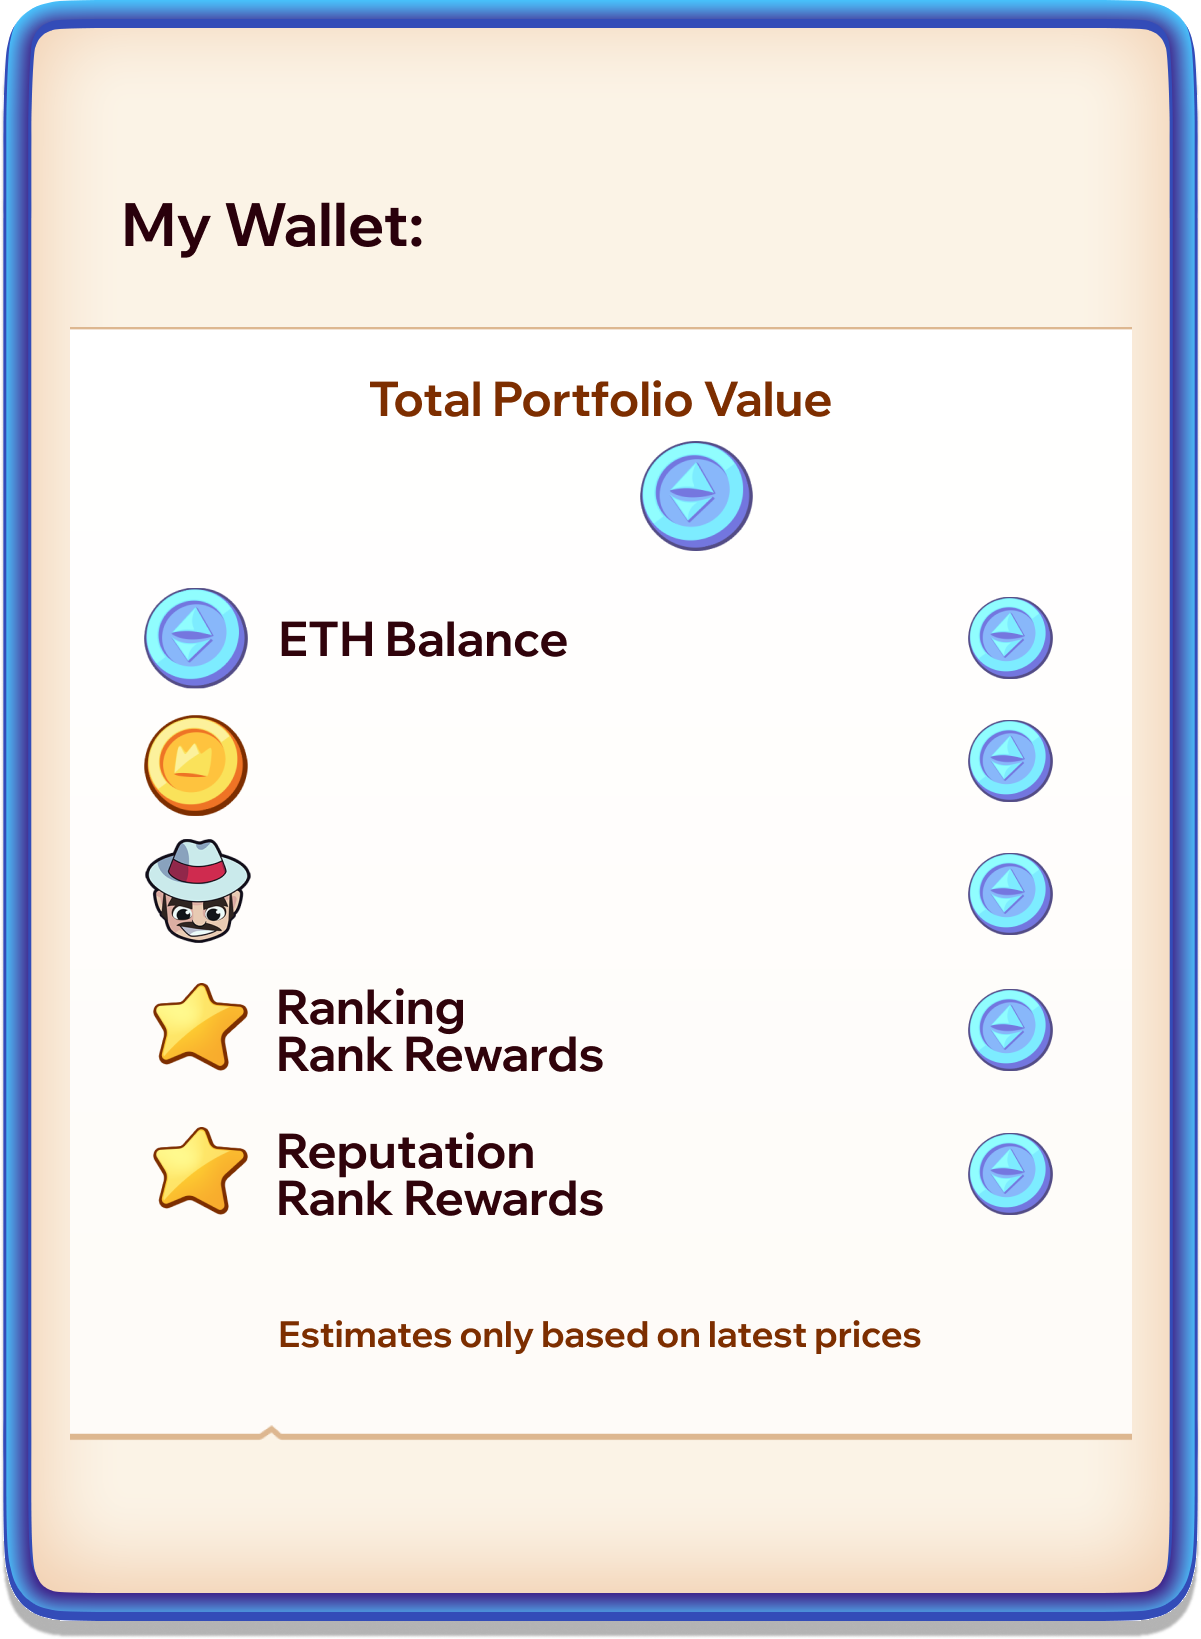
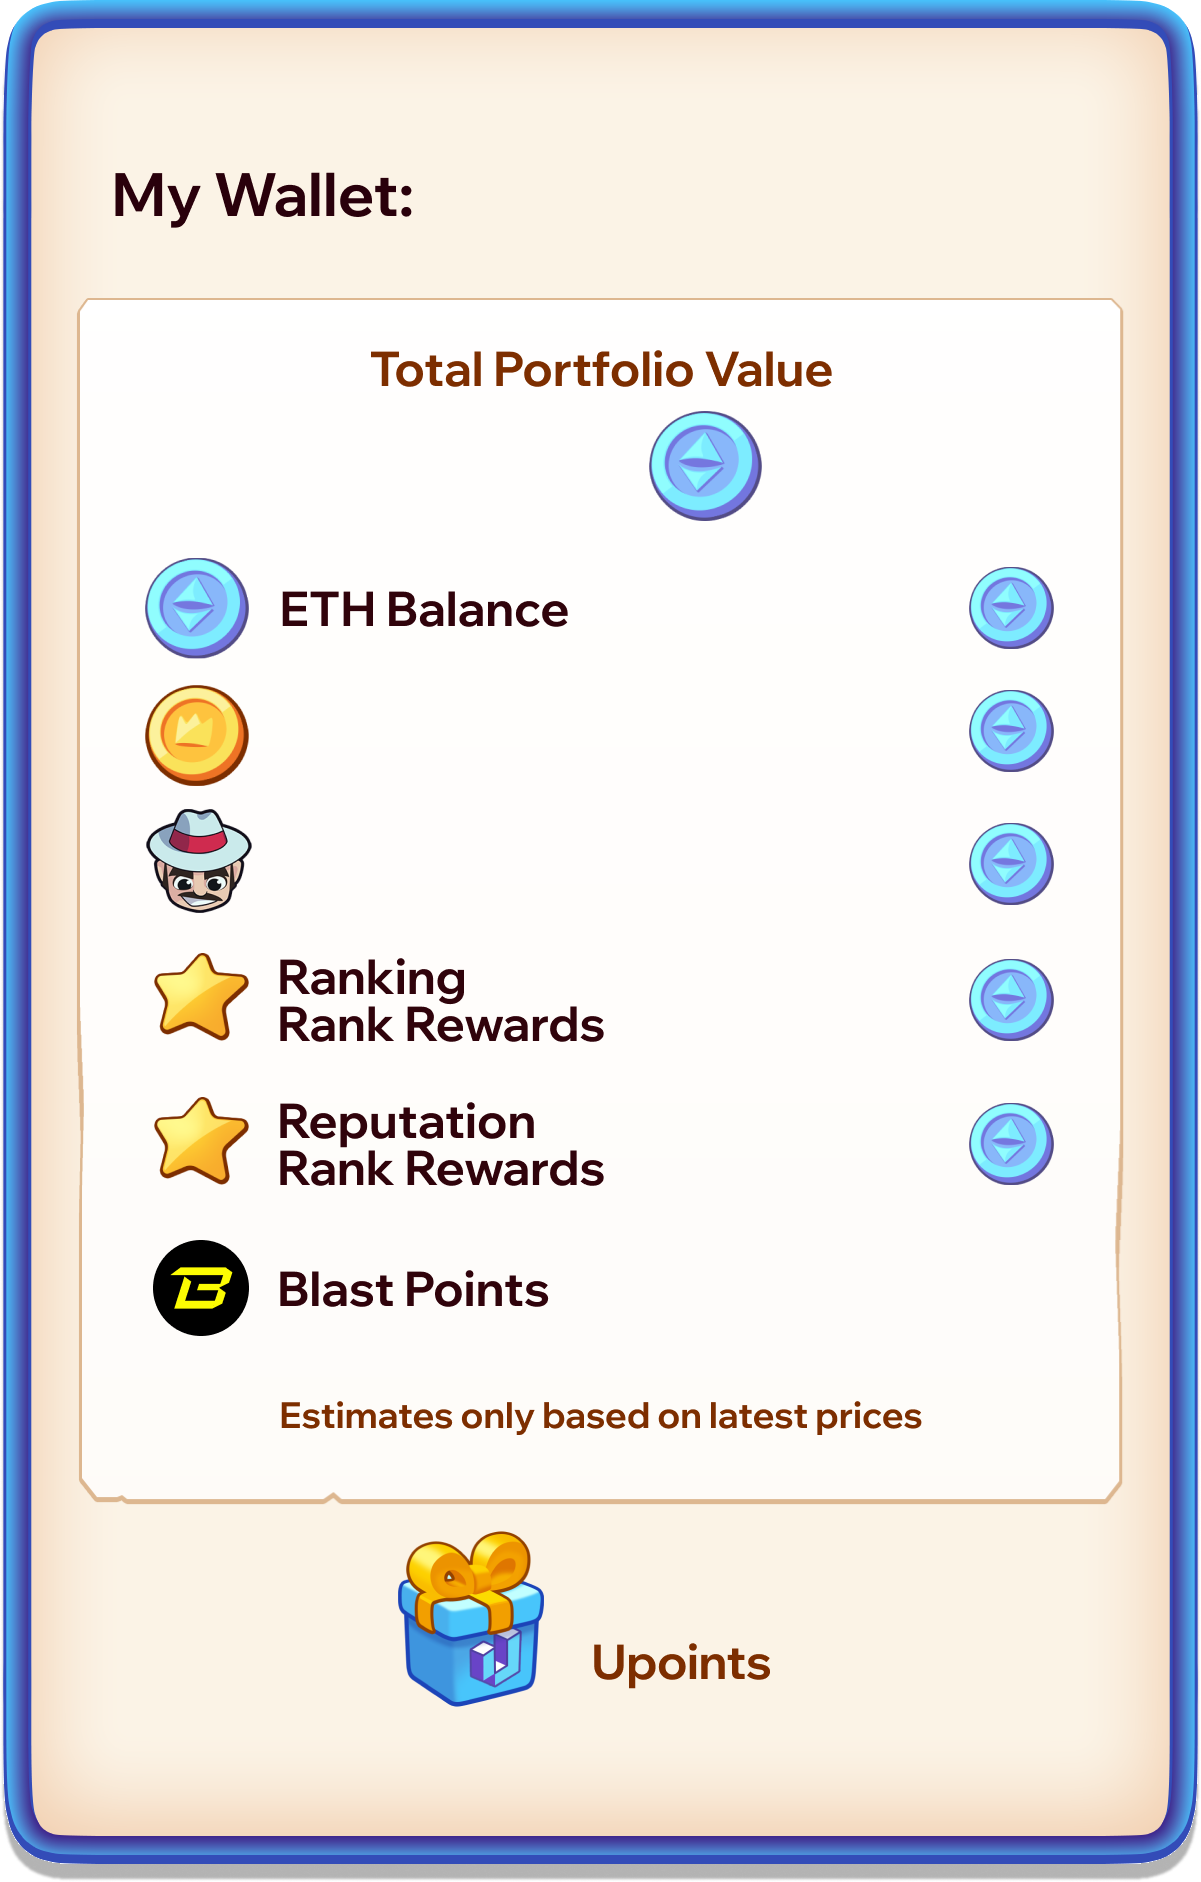
feat(de-57): add configs blast point && UI show blast point reward

diff --git a/app/src/pages/Game/components/popup/PopupPortfolio.js b/app/src/pages/Game/components/popup/PopupPortfolio.js
@@ -3,6 +3,7 @@ import Button from '../button/Button';
 import TextButton from '../button/TextButton';
 import configs from '../../configs/configs';
 import { formatter } from '../../../../utils/numbers';
+import { fontFamilies } from '../../../../utils/styles';
 
 const { width, height } = configs;
 
@@ -44,7 +45,7 @@ class PopupPortfolio extends Popup {
     this.add(this.statisticBtn);
 
     this.addressText = scene.add
-      .text(this.popup.x - 160, this.popup.y - 590, '', {
+      .text(this.popup.x - 150, this.popup.y - 743, '', {
         fontSize: '60px',
         color: '#7D2E00',
         fontFamily: 'WixMadeforDisplayExtraBold',
@@ -64,7 +65,7 @@ class PopupPortfolio extends Popup {
     this.add(this.copyBtn);
 
     this.totalBalanceText = scene.add
-      .text(this.popup.x + 10, this.popup.y - 320, '', {
+      .text(this.popup.x + 10, this.popup.y - 480, '', {
         fontSize: '60px',
         color: '#30030B',
         fontFamily: 'WixMadeforDisplayExtraBold',
@@ -73,7 +74,7 @@ class PopupPortfolio extends Popup {
     this.add(this.totalBalanceText);
 
     this.balanceText = scene.add
-      .text(this.popup.x + 350, this.popup.y - 180, '', {
+      .text(this.popup.x + 350, this.popup.y - 325, '', {
         fontSize: '48px',
         color: '#30030B',
         fontFamily: 'WixMadeforDisplayBold',
@@ -125,6 +126,7 @@ class PopupPortfolio extends Popup {
       })
       .setOrigin(1, 0.5);
     this.add(this.rankRewardText);
+
     this.reputationRewardText = scene.add
       .text(this.balanceText.x, this.machineValueText.y + lineGap * 2 + 20, '', {
         fontSize: '48px',
@@ -133,6 +135,24 @@ class PopupPortfolio extends Popup {
       })
       .setOrigin(1, 0.5);
     this.add(this.reputationRewardText);
+
+    this.blastPointText = scene.add
+      .text(this.balanceText.x + 95, this.reputationRewardText.y + lineGap, '', {
+        fontSize: '48px',
+        color: '#30030B',
+        fontFamily: 'WixMadeforDisplayBold',
+      })
+      .setOrigin(1, 0.5);
+    this.add(this.blastPointText);
+
+    this.uPointText = scene.add
+      .text(this.popup.x - 10, this.popup.y + this.popup.height / 2 - 280, '', {
+        fontSize: '72px',
+        color: '#29000B',
+        fontFamily: fontFamilies.extraBold,
+      })
+      .setOrigin(0, 0.5);
+    this.add(this.uPointText);
 
     scene.game.events.on(
       'update-portfolio',
@@ -146,6 +166,7 @@ class PopupPortfolio extends Popup {
         machineValue,
         rankReward,
         reputationReward,
+        blastPointReward,
       }) => {
         this.address = address;
         this.addressText.text = this.formatAddress(address);
@@ -158,6 +179,8 @@ class PopupPortfolio extends Popup {
         this.machineValueText.text = `~${formatter.format(machineValue)}`;
         this.rankRewardText.text = `~${formatter.format(rankReward)}`;
         this.reputationRewardText.text = `~${formatter.format(reputationReward)}`;
+        this.blastPointText.text = `~${formatter.format(blastPointReward)}`;
+        this.uPointText.text = 2354;
       }
     );
 

diff --git a/app/src/pages/Game/index.js b/app/src/pages/Game/index.js
@@ -277,6 +277,7 @@ const Game = () => {
     whitelistAmountMinted,
     warDeployment,
     lastTimeSwapXToken,
+    blastPointReward,
   } = gamePlay || {
     numberOfMachines: 0,
     numberOfWorkers: 0,
@@ -290,6 +291,7 @@ const Game = () => {
       attackUserId: null,
       acttackUser: null,
     },
+    blastPointReward: 0,
   };
   const {
     machine,
@@ -1166,6 +1168,7 @@ const Game = () => {
             machineValue,
             rankReward,
             reputationReward,
+            blastPointReward,
           });
         });
       });
@@ -1730,9 +1733,10 @@ const Game = () => {
         machineValue,
         rankReward,
         reputationReward,
+        blastPointReward,
       });
     }
-  }, [rankData, address, tokenBalance, numberOfMachines, ETHBalance]);
+  }, [rankData, address, tokenBalance, numberOfMachines, ETHBalance, blastPointReward]);
 
   useEffect(() => {
     if (rankData?.data) {

diff --git a/script/tasks/addBlastPoint.js b/script/tasks/addBlastPoint.js
@@ -1,0 +1,17 @@
+import { firestore } from '../configs/admin.config.js';
+import { getActiveSeasonId } from '../utils/utils.js';
+
+const main = async () => {
+  const activeSeasonId = await getActiveSeasonId();
+  await firestore.collection('season').doc(activeSeasonId).update({
+    blastPointBalance: 0,
+  });
+
+  const gamePlay = await firestore.collection('gamePlay').where('seasonId', '==', activeSeasonId).get();
+  const promises = gamePlay.docs.map((doc) => doc.ref.update({ blastPointReward: 0 }));
+  await Promise.all(promises);
+};
+
+main()
+  .then(() => console.log('done!'))
+  .catch(console.error);
